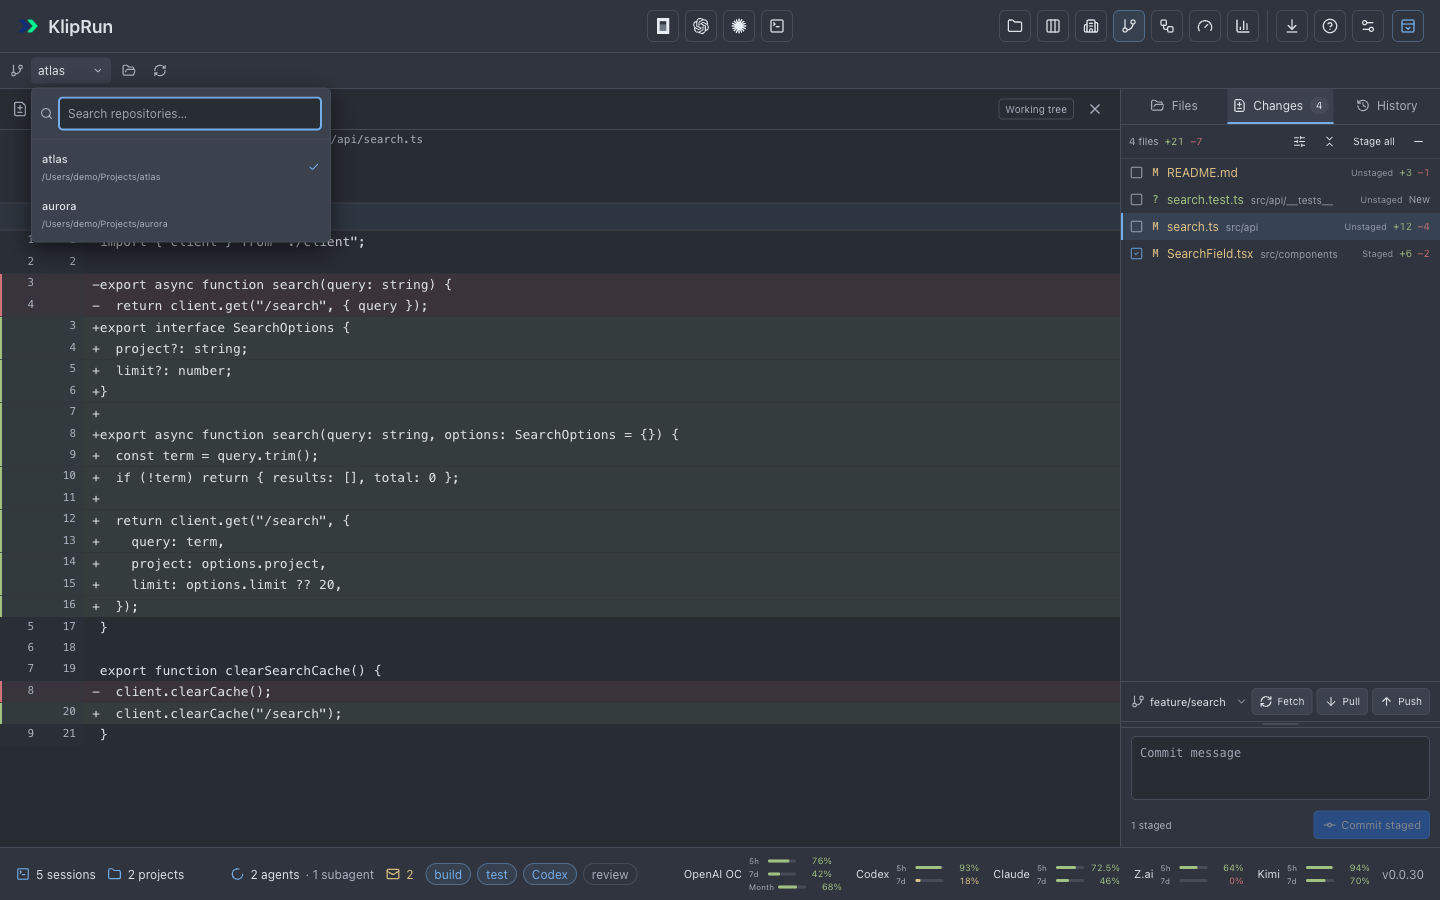
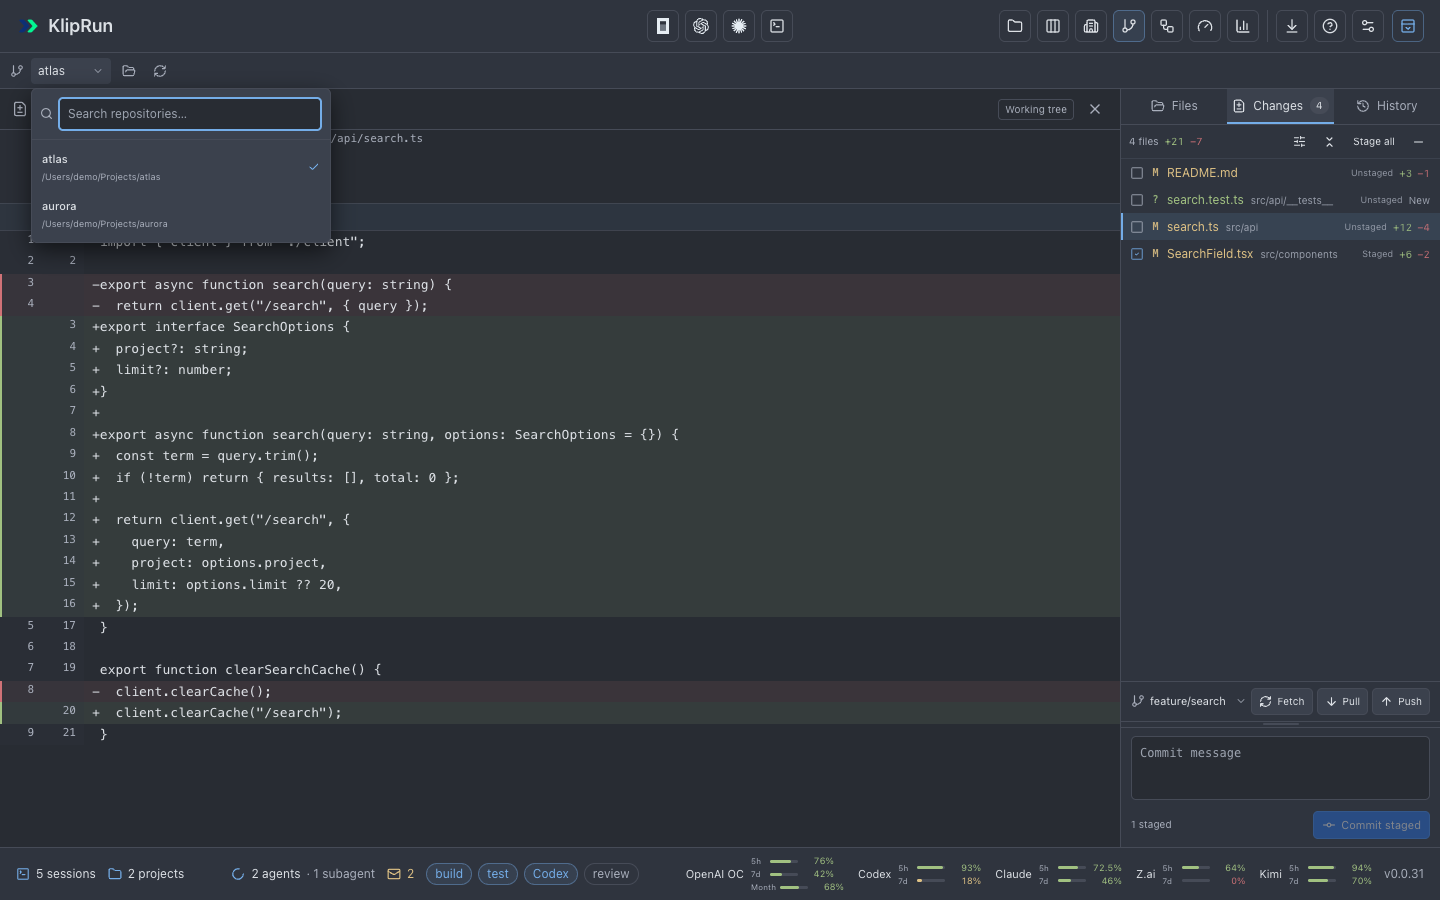
release/0.0.31: Подготовить версию и обновить скриншоты

diff --git a/docs/screenshots/capture-git.js b/docs/screenshots/capture-git.js
@@ -8,6 +8,7 @@ async (page, directory = "docs/screenshots", base = "http://127.0.0.1:18796") =>
     await page.goto(`${base}/git`);
     await page.evaluate(() => { localStorage.removeItem("kliprun.git.sidebar-width"); localStorage.removeItem("kliprun.git.changes-view"); });
     await page.reload();
+    await page.getByRole("tab", { name: "Changes", exact: false }).click();
     await page.locator('.git-file-select[title="src/api/search.ts"]').click();
     await page.locator(".git-diff-heading").getByText("src/api/search.ts", { exact: true }).waitFor();
     await page.locator(".git-diff").waitFor();

diff --git a/docs/screenshots/capture-all.js b/docs/screenshots/capture-all.js
@@ -10,7 +10,7 @@ async (page, directory = "docs/screenshots", base = "http://127.0.0.1:18796") =>
     await page.goto(`${base}${path}`);
     if (!path.startsWith("/__demo/")) {
       await page.locator('[data-testid="version"]').waitFor();
-      if ((await page.locator('[data-testid="version"]').innerText()) !== "v0.0.30") throw new Error("Build the 0.0.30 client before capturing.");
+      if ((await page.locator('[data-testid="version"]').innerText()) !== "v0.0.31") throw new Error("Build the 0.0.31 client before capturing.");
     }
   }
   async function save(name) {

diff --git a/README.md b/README.md
@@ -35,7 +35,7 @@ use **Kanban** in this toolbar to return to the board.
 
 Requires **Apple Silicon and macOS 13+**.
 
-1. Download `KlipRun-0.0.30-macos-arm64.zip` from the [latest release](https://github.com/klipbn/kliprun_desktop/releases/latest).
+1. Download `KlipRun-0.0.31-macos-arm64.zip` from the [latest release](https://github.com/klipbn/kliprun_desktop/releases/latest).
 2. Unzip and move `KlipRun.app` to **Applications**. Quit KlipRun before replacing an older version.
 3. Open the app. If macOS blocks it, use **System Settings → Privacy & Security → Open Anyway**. The build is locally signed and not notarized.
 
@@ -43,9 +43,9 @@ Install and sign in to [OpenCode](https://opencode.ai/), [Codex CLI](https://git
 
 ## Workflow
 
-Open **Workflow** immediately after **Git** in the toolbar, or use **Control+7**. **New workflow** asks for a name and working folder, then offers an empty canvas or an editable **Plan → Implement → Review → Publish → Human** template. These names have no special behavior: each agent card has its own agent, model, task, result type, output files and completion condition. Model suggestions come from the installed agents' catalogs; a model ID can also be entered, as in Agents settings. An empty model uses that agent's saved default.
+Open **Workflow** immediately after **Git** in the toolbar, or use **Control+5**. **New workflow** asks for a name and working folder, then offers an empty canvas or an editable **Plan → Implement → Review → Publish → Human** template. These names have no special behavior: each agent card has its own agent, model, task, result type, output files and completion condition. Model suggestions come from the installed agents' catalogs; a model ID can also be entered, as in Agents settings. An empty model uses that agent's saved default.
 
-Drag cards to arrange them. Click an output dot and then another card's input dot to connect them; select an arrow to delete it or change its rework limit. Scroll to pan, use the zoom buttons or **Fit view**, and inspect Settings, Inputs, Result, History and Responses on the right. Drafts, positions, viewport and selection save automatically. The collapsible Workflow list shows each name, date and last-run state. Drag the dividers to resize the list and Task details; dimensions and visibility are saved. Responses displays assistant prose as Markdown and turns review JSON into a verdict, summary and findings. New runs store bounded assistant responses and compact recovery records instead of raw tool logs.
+Drag cards to arrange them. Click an output dot and then another card's input dot to connect them; select an arrow to delete it or change its rework limit. Scroll to zoom, drag the canvas to pan, or use the zoom buttons and **Fit view**. Inspect Settings, Inputs, Result, History and Responses on the right. Drafts, positions, viewport and selection save automatically. The collapsible Workflow list shows each name, date and last-run state. Drag the dividers to resize the list and Task details; dimensions and visibility are saved. Responses displays assistant prose as Markdown and turns review JSON into a verdict, summary and findings. New runs store bounded assistant responses and compact recovery records instead of raw tool logs.
 
 **Run history** shows only the selected workflow's runs and identifies that workflow by name. Switching workflows clears the previous run selection. The sidebar supports name search and a **…** menu (also available on right-click) with **Rename**, **Hide workflow / Show workflow**, and **Delete**. Hidden workflows remain accessible through **Hidden** and keep executing; renaming leaves saved run snapshots intact. Delete uses an in-app confirmation, removes the workflow and its history, keeps project files, and requires any active run to be stopped first. Dates include local hours and minutes; task and agent durations use **HH:MM:SS**, including seconds after an hour. **Auto layout** arranges cards in the order defined by forward arrows, and **Run order** in the inspector lists the sequence when no task is selected. These compact controls take cues from the [Kangentic demo](https://kangentic.github.io/kangentic/stage.html).
 
@@ -76,6 +76,10 @@ If Sessions cannot refresh after a temporary history-index startup failure, **Re
 Click the terminal icon at the far left of the terminal tab bar to open a scrollable list of all open terminal tabs. Each row shows its number, title, project folder, running indicator, and pin state; a checkmark identifies the active tab. Numbers follow the current tab order, including pinned and reordered tabs. The first nine show their **⌘1–9** shortcuts; later tabs remain available by clicking. Choosing a row switches to that terminal and its linked session and closes the list.
 
 When terminal tabs overflow, scroll over the tab strip with the mouse wheel to move through them without holding Shift. Horizontal trackpad gestures also work.
+
+**Settings → Terminal** has a separate terminal theme with a live preview. Keep **Follow app theme** or choose Graphite, Midnight, Ember, Dusk, Daybreak, Paper, Dracula, Nord, Solarized Dark or Solarized Light. The palette, font size and scrolling speeds apply immediately to every open terminal and persist across restarts. Agents can override palette colors in their own interface. **Reset terminal settings** restores following the app theme.
+
+**Mouse wheel** controls traditional wheel notches; **Smooth scrolling** independently controls trackpads and Magic Mouse. Both settings apply to local history, application mouse reporting and alternate-screen arrow-key scrolling. Generated input stays rate-limited so fast gestures cannot flood an agent with keystrokes.
 
 **Settings → Agents**, between Notifications and Usage, saves Model, CLI path, and Launch arguments separately for OpenCode, Codex, and Claude Code. Changes apply to new and resumed sessions. Empty fields keep automatic launching, including `codex-vk` when available. CLI paths support `~/` and paths with spaces; Choose… selects a binary or wrapper. OpenCode models use `provider/model`; the other agents accept their CLI's model IDs or aliases. Quote argument values containing spaces; environment variables and shell commands are passed as literal text. Invalid quoting appears beside the agent's settings and prevents launching until corrected. Reset restores automatic settings for that agent.
 

diff --git a/docs/screenshots/README.md b/docs/screenshots/README.md
@@ -1,6 +1,6 @@
 # Demo screenshots
 
-All twenty-one current screenshots were captured from **KlipRun Desktop 0.0.30** on **2026-10-19**, using Graphite. The original palette is named Midnight. Session IDs, titles, project paths, models, priority flags, Git metadata, quotas, and usage totals come only from [`mock-api.json`](mock-api.json). The preview fixes the clock to the fixture’s `board.generated_at` (2026-10-14), supplies a stub desktop bridge, and disables Office motion. No live engine, user session store, credentials, quota API, or agent process is used.
+All twenty-one current screenshots were captured from **KlipRun Desktop 0.0.31** on **2026-10-20**, using Graphite. The original palette is named Midnight. Session IDs, titles, project paths, models, priority flags, Git metadata, quotas, and usage totals come only from [`mock-api.json`](mock-api.json). The preview fixes the clock to the fixture’s `board.generated_at` (2026-10-14), supplies a stub desktop bridge, and disables Office motion. No live engine, user session store, credentials, quota API, or agent process is used.
 
 | File | Size | Example shown |
 | --- | --- | --- |
@@ -68,7 +68,7 @@ The `git` fixture supplies repository roots, status, history, commit files, sour
 
 `git.text_files` supplies fictional Python, SQL, Markdown, and TypeScript source for the Files tab. The preview serves `/api/git/files` and reads from `/api/git/file`; save requests are rejected. [`../../scripts/git-files.test.js`](../../scripts/git-files.test.js) is a Playwright callback `(page, fixture)` taking the parsed `mock-api.json`. It intercepts file requests and keeps simulated saves in memory, checking the right-hand project tree and its filter/keyboard controls, preview and permanent tabs, CodeMirror indentation/search/undo across tabs, save/close/cancel, Markdown preview, save conflicts, delayed responses, inactive drafts on repository changes, and normal/small windows.
 
-The toolbar follows **Sessions → Kanban → Office → Git → Workflow → Usage → Statistics**, with a separate **Check for Updates → Keyboard shortcuts → Settings** utility group. Shortcuts use Control+1 Sessions, Control+2 Kanban, Control+3 Office, Control+4 Git, Control+5 Usage, and Control+6 Statistics, and Control+7 Workflow. Capture callbacks made **zero external requests**.
+The toolbar follows **Sessions → Kanban → Office → Git → Workflow → Usage → Statistics**, with a separate **Check for Updates → Keyboard shortcuts → Settings** utility group. Shortcuts use Control+1 Sessions, Control+2 Kanban, Control+3 Office, Control+4 Git, Control+5 Workflow, Control+6 Usage, and Control+7 Statistics. Capture callbacks made **zero external requests**.
 
 The Office image now shows the Shared loft floor plan with the same fictional sessions. [`../../scripts/office.test.js`](../../scripts/office.test.js) checks all three floor plans, persistent settings, new and removed helpers, observed-state transitions and idle grace, selection, active-terminal highlighting, usage, zoom, and reduced motion in normal and constrained web-view sizes.
 
@@ -122,3 +122,12 @@ stay outside the committed gallery.
 The 0.0.29 refresh updates all 19 existing gallery images and adds `workflow.png` and `workflow-review.png` through `capture-workflow.js`, using the workflow fixture and its in-memory executor. All 21 captures use only fixture data and make no external requests. Provider selection/order and native Settings are verified separately; the Usage gallery retains all five fixture providers.
 
 The 0.0.30 refresh recaptures all 21 gallery images with the same callbacks and fixture, changing only the displayed version. The Claude Code session-linking and journal fixes are engine-side and covered by `engine/src/server/__tests__/claude.test.ts`. All captures made zero external requests.
+
+`check-workflow-navigation.js` checks Control+5/6/7 navigation, plain-wheel zoom,
+canvas drag panning and page-scroll isolation at 1440- and 620-pixel widths using
+only the workflow fixture.
+
+The 0.0.31 refresh recaptures all 21 gallery images using only `mock-api.json`,
+including the corrected navigation shortcuts. Native terminal themes and controls
+are checked separately at normal and small Settings sizes with disposable defaults;
+review images remain in `/private/tmp`. All gallery captures made zero external requests.

diff --git a/CHANGELOG.md b/CHANGELOG.md
@@ -4,6 +4,18 @@ Notable changes to KlipRun Desktop are recorded here. Versions use [Semantic Ver
 
 ## [Unreleased]
 
+## [0.0.31] - 2026-10-20
+
+### Added
+
+- Add an independent terminal palette in Settings → Terminal with a live terminal preview, Follow app theme, Dracula, Nord and Solarized Dark/Light alongside the existing palettes. Apply saved colors to all open terminals and before new agents start.
+
+### Fixed
+
+- Honor the configured mouse-wheel step in alternate-screen arrow-key scrolling instead of saturating at six keys. Respect independent smooth-scrolling speeds up to 10× in application mouse/arrow reporting while preserving the input rate limit.
+- Match navigation shortcuts to toolbar order: Control+5 Workflow, Control+6 Usage and Control+7 Statistics, including the macOS menu and shortcut help.
+- Zoom the Workflow canvas with the mouse wheel without a modifier; drag the background to pan and keep wheel events from scrolling the surrounding page.
+
 ## [0.0.30] - 2026-10-19
 
 ### Fixed
@@ -491,4 +503,5 @@ First public macOS release.
 [0.0.28]: https://github.com/klipbn/kliprun_desktop/releases/tag/v0.0.28
 [0.0.29]: https://github.com/klipbn/kliprun_desktop/releases/tag/v0.0.29
 [0.0.30]: https://github.com/klipbn/kliprun_desktop/releases/tag/v0.0.30
-[Unreleased]: https://github.com/klipbn/kliprun_desktop/compare/v0.0.30...main
+[Unreleased]: https://github.com/klipbn/kliprun_desktop/compare/v0.0.31...main
+[0.0.31]: https://github.com/klipbn/kliprun_desktop/compare/v0.0.30...v0.0.31
